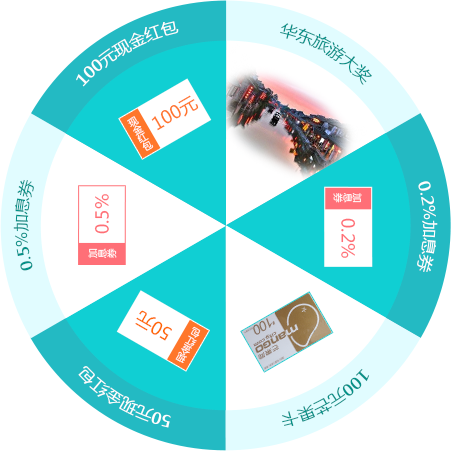
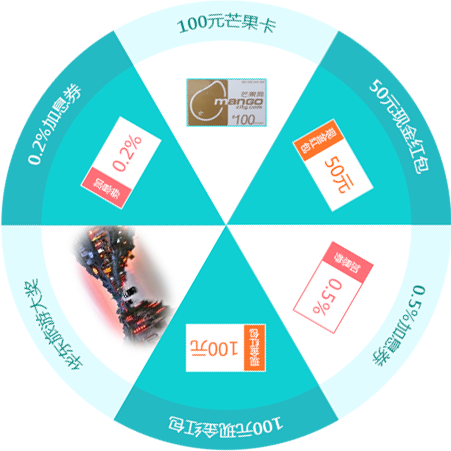
fix js

diff --git a/ttsd-activity/src/main/webapp/activity/js/gift_circle.js b/ttsd-activity/src/main/webapp/activity/js/gift_circle.js
@@ -23,48 +23,51 @@ define(['jquery', 'rotate', 'layerWrapper','template', 'jquery.validate', 'jquer
     $pointer.on('click', function(event) {
         event.preventDefault();
 
-            if (bRotate) return;
-            $.ajax({
-                    url: '/activity/draw-lottery',
-                    type: 'POST',
-                    dataType: 'json'
-                })
-                .done(function(res) {
-                    console.log(res);
-                    if (res.data.returnCode == 0) {
-                        var item = res.data.lotteryPrize;
-                        switch (item) {
-                            case 'INTEREST_COUPON_2':
-                                rotateFn(0, 56, '0.2加息券');
-                                break;
-                            case 'LUXURY':
-                                rotateFn(0, 56, '奢侈品大奖');
-                                break;
-                            case 'RED_ENVELOPE_100':
-                                rotateFn(1, 120, '100元现金红包');
-                                break;
-                            case 'INTEREST_COUPON_5':
-                                rotateFn(2, 200, '0.5加息券');
-                                break;
-                            case 'RED_ENVELOPE_50':
-                                rotateFn(3, 260, '50元现金红包');
-                                break;
-                            case 'PORCELAIN_CUP':
-                                rotateFn(4, 337, '青花瓷杯子');
-                                break;
-                        }
-                    } else if (res.data.returnCode == 2) {
-                        $('#tipList').html(tpl('tipListTpl', {tiptext:res.data.message})).show().find('.tip-dom').show();
-                    } else {
-                        $('#tipList').html(tpl('tipListTpl', {tiptext:res.data.message})).show().find('.tip-dom').show();
-                    }
-                })
-                .fail(function() {
-                    layer.msg('请求失败');
-                });
+        if (bRotate) return;
+        $.ajax({
+            url: '/activity/draw-lottery',
+            type: 'POST',
+            dataType: 'json'
+        })
+        .done(function(res) {
+            console.log(res);
+            if (res.data.returnCode == 0) {
+                var item = res.data.lotteryPrize;
+                switch (item.name) {
+                    case 'PORCELAIN_CUP':
+                        rotateFn(0, 337, '青花瓷杯子',res.data.returnCode,item.type);
+                        break;
+                    case 'INTEREST_COUPON_2':
+                        rotateFn(1, 56, '0.2加息券',res.data.returnCode,item.type);
+                        break;
+                    case 'LUXURY':
+                        rotateFn(2, 116, '奢侈品大奖',res.data.returnCode,item.type);
+                        break;
+                    case 'RED_ENVELOPE_100':
+                        rotateFn(3, 160, '100元现金红包',res.data.returnCode,item.type);
+                        break;
+                    case 'INTEREST_COUPON_5':
+                        rotateFn(4, 230, '0.5加息券',res.data.returnCode,item.type);
+                        break;
+                    case 'RED_ENVELOPE_50':
+                        rotateFn(5, 260, '50元现金红包',res.data.returnCode,item.type);
+                        break;
+                    case 'MANGO_CARD_100':
+                        rotateFn(6, 347, '100元芒果卡',res.data.returnCode,item.type);
+                        break;
+                }
+            } else if (res.data.returnCode == 2) {
+                $('#tipList').html(tpl('tipListTpl', {tiptext:res.data.message,istype:'nologin'})).show().find('.tip-dom').show();
+            } else {
+                $('#tipList').html(tpl('tipListTpl', {tiptext:res.data.message,istype:'notimes'})).show().find('.tip-dom').show();
+            }
+        })
+        .fail(function() {
+            layer.msg('请求失败');
+        });
     });
 
-    function rotateFn(awards, angles, txt) {
+    function rotateFn(awards, angles, txt,type) {
         bRotate = !bRotate;
         $('#rotate').stopRotate();
         $('#rotate').rotate({
@@ -72,8 +75,9 @@ define(['jquery', 'rotate', 'layerWrapper','template', 'jquery.validate', 'jquer
             animateTo: angles + 1800,
             duration: 8000,
             callback: function() {
-                $('#tipList').html(tpl('tipListTpl', {tiptext:'恭喜你抽中了'+txt})).show().find('.tip-dom').show();
+                $('#tipList').html(tpl('tipListTpl', {tiptext:'恭喜你抽中了'+txt,istype:type})).show().find('.tip-dom').show();
                 bRotate = !bRotate;
+                $('#lotteryTime').text()>1?$('#lotteryTime').text(function(index,num){return parseInt(num)-1}):$('#lotteryTime').text('0');
             }
         })
     }

diff --git a/ttsd-activity/src/main/webapp/activity/js/dest/gift_circle.min.js b/ttsd-activity/src/main/webapp/activity/js/dest/gift_circle.min.js
@@ -1,1 +1,1 @@
-define(["jquery","rotate","layerWrapper","template","jquery.validate","jquery.validate.extension","jquery.ajax.extension"],function(a,b,c,d){function e(b,c,e){g=!g,a("#rotate").stopRotate(),a("#rotate").rotate({angle:0,animateTo:c+1800,duration:8e3,callback:function(){a("#tipList").html(d("tipListTpl",{tiptext:"恭喜你抽中了"+e})).show().find(".tip-dom").show(),g=!g}})}function f(a){var b=a.find("ul.user-record"),c=b.find("li:first").height();b.find("li").length>10&&b.animate({"margin-top":-c+"px"},600,function(){b.css({"margin-top":"0px"}).find("li:first").appendTo(b)})}var g=!1,h=a("#pointer"),i=(a("#rotate"),a(".gift-record li"));i.on("click",function(b){var c=a(this),d=c.index();c.addClass("active").siblings("li").removeClass("active"),a("#recordList").find(".record-model:eq("+d+")").addClass("active").siblings(".record-model").removeClass("active")}),h.on("click",function(b){b.preventDefault(),g||a.ajax({url:"/activity/draw-lottery",type:"POST",dataType:"json"}).done(function(b){if(console.log(b),0==b.data.returnCode){var c=b.data.lotteryPrize;switch(c){case"INTEREST_COUPON_2":e(0,56,"0.2加息券");break;case"LUXURY":e(0,56,"奢侈品大奖");break;case"RED_ENVELOPE_100":e(1,120,"100元现金红包");break;case"INTEREST_COUPON_5":e(2,200,"0.5加息券");break;case"RED_ENVELOPE_50":e(3,260,"50元现金红包");break;case"PORCELAIN_CUP":e(4,337,"青花瓷杯子")}}else 2==b.data.returnCode?a("#tipList").html(d("tipListTpl",{tiptext:b.data.message})).show().find(".tip-dom").show():a("#tipList").html(d("tipListTpl",{tiptext:b.data.message})).show().find(".tip-dom").show()}).fail(function(){c.msg("请求失败")})}),a("body").on("click",".go-close",function(b){b.preventDefault();var c=a(this),d=c.parents(".tip-list"),e=d.find(".tip-dom");d.hide(),e.hide()});var j;a(".user-record").hover(function(){clearInterval(j)},function(){j=setInterval(function(){f(a("#recordList"))},2e3)}).trigger("mouseout");(function(){a.ajax({url:"/activity/lottery-all-record",type:"POST",dataType:"json"}).done(function(b){a("#GiftRecord").html(d("GiftRecordTpl",{record:b}))})})(),function(){a.ajax({url:"/activity/lottery-record-list",type:"POST",dataType:"json"}).done(function(b){a("#MyGift").html(d("MyGiftTpl",{gift:b}))})}()});
+define(["jquery","rotate","layerWrapper","template","jquery.validate","jquery.validate.extension","jquery.ajax.extension"],function(a,b,c,d){function e(b,c,e,f){g=!g,a("#rotate").stopRotate(),a("#rotate").rotate({angle:0,animateTo:c+1800,duration:8e3,callback:function(){a("#tipList").html(d("tipListTpl",{tiptext:"恭喜你抽中了"+e,istype:f})).show().find(".tip-dom").show(),g=!g,a("#lotteryTime").text()>1?a("#lotteryTime").text(function(a,b){return parseInt(b)-1}):a("#lotteryTime").text("0")}})}function f(a){var b=a.find("ul.user-record"),c=b.find("li:first").height();b.find("li").length>10&&b.animate({"margin-top":-c+"px"},600,function(){b.css({"margin-top":"0px"}).find("li:first").appendTo(b)})}var g=!1,h=a("#pointer"),i=(a("#rotate"),a(".gift-record li"));i.on("click",function(b){var c=a(this),d=c.index();c.addClass("active").siblings("li").removeClass("active"),a("#recordList").find(".record-model:eq("+d+")").addClass("active").siblings(".record-model").removeClass("active")}),h.on("click",function(b){b.preventDefault(),g||a.ajax({url:"/activity/draw-lottery",type:"POST",dataType:"json"}).done(function(b){if(console.log(b),0==b.data.returnCode){var c=b.data.lotteryPrize;switch(c.name){case"PORCELAIN_CUP":e(0,337,"青花瓷杯子",b.data.returnCode,c.type);break;case"INTEREST_COUPON_2":e(1,56,"0.2加息券",b.data.returnCode,c.type);break;case"LUXURY":e(2,116,"奢侈品大奖",b.data.returnCode,c.type);break;case"RED_ENVELOPE_100":e(3,160,"100元现金红包",b.data.returnCode,c.type);break;case"INTEREST_COUPON_5":e(4,230,"0.5加息券",b.data.returnCode,c.type);break;case"RED_ENVELOPE_50":e(5,260,"50元现金红包",b.data.returnCode,c.type);break;case"MANGO_CARD_100":e(6,347,"100元芒果卡",b.data.returnCode,c.type)}}else 2==b.data.returnCode?a("#tipList").html(d("tipListTpl",{tiptext:b.data.message,istype:"nologin"})).show().find(".tip-dom").show():a("#tipList").html(d("tipListTpl",{tiptext:b.data.message,istype:"notimes"})).show().find(".tip-dom").show()}).fail(function(){c.msg("请求失败")})}),a("body").on("click",".go-close",function(b){b.preventDefault();var c=a(this),d=c.parents(".tip-list"),e=d.find(".tip-dom");d.hide(),e.hide()});var j;a(".user-record").hover(function(){clearInterval(j)},function(){j=setInterval(function(){f(a("#recordList"))},2e3)}).trigger("mouseout");(function(){a.ajax({url:"/activity/lottery-all-record",type:"POST",dataType:"json"}).done(function(b){a("#GiftRecord").html(d("GiftRecordTpl",{record:b}))})})(),function(){a.ajax({url:"/activity/lottery-record-list",type:"POST",dataType:"json"}).done(function(b){a("#MyGift").html(d("MyGiftTpl",{gift:b}))})}()});
